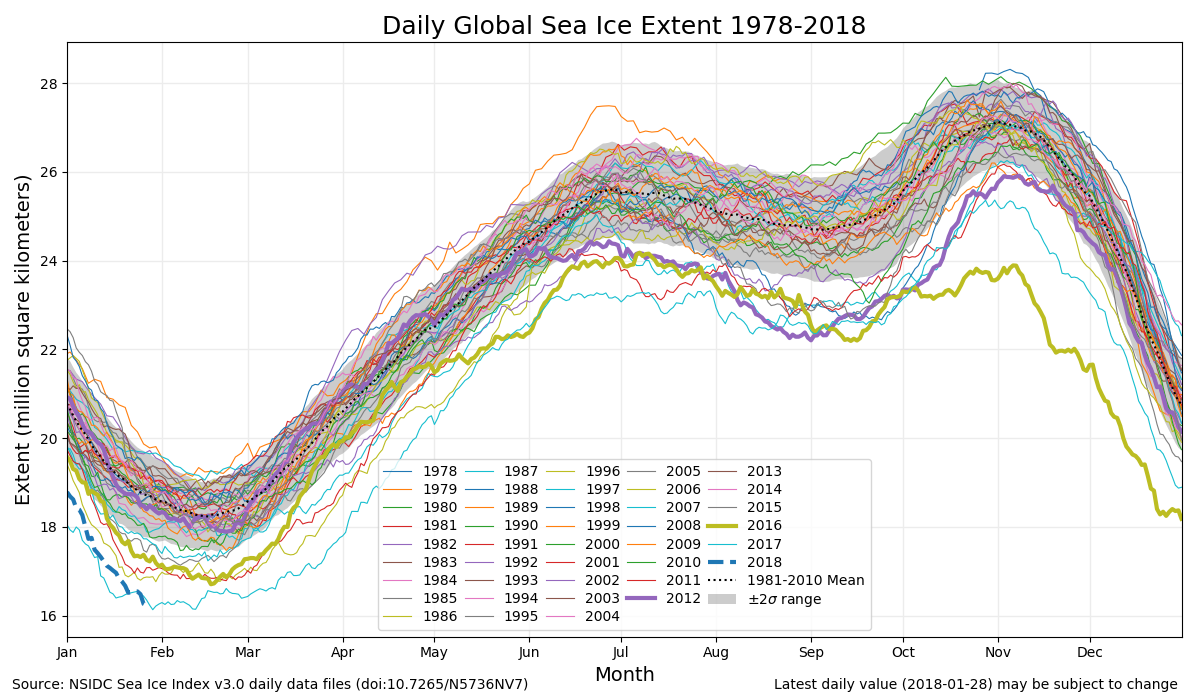
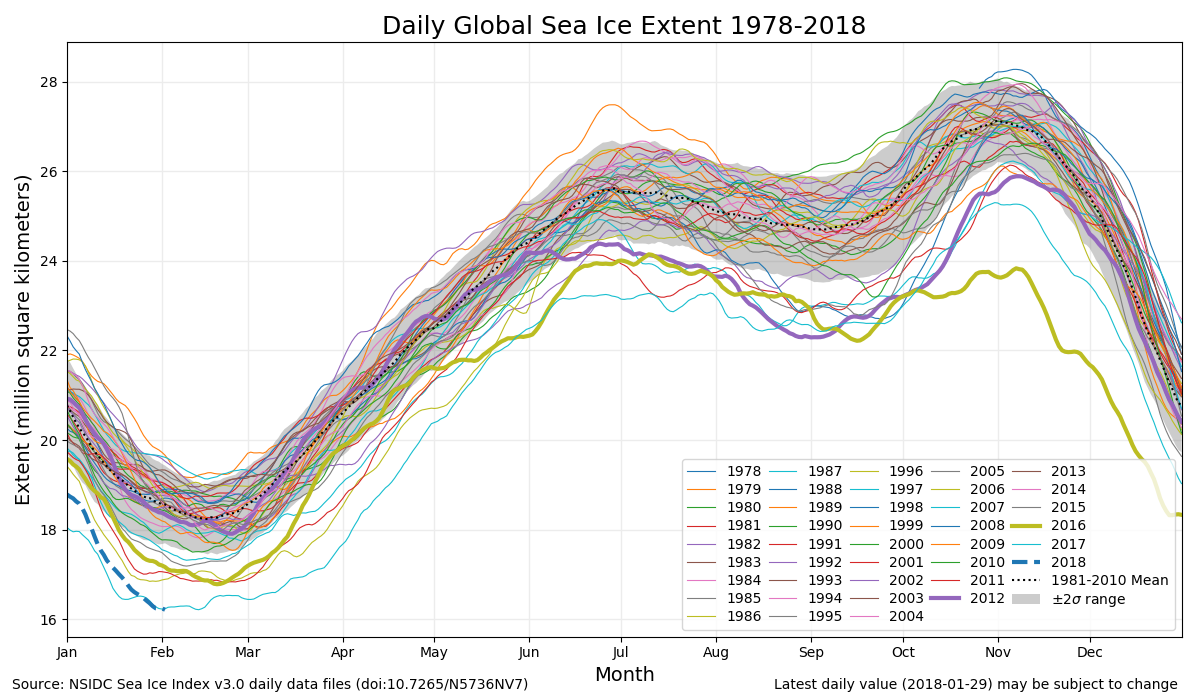
Add smoothing to Daily timeseries - uses rolling 5day mean - update daily plots to current

diff --git a/nsidc-tools/DailyIceIndexPlotter.py b/nsidc-tools/DailyIceIndexPlotter.py
@@ -186,10 +186,10 @@ def plot_timeseries(daily_df, climo_df, aoi='Arctic', sigma=2.):
             expanded_index = pd.DatetimeIndex(start=dobj, end=dobj+timedelta(364), freq='1D')
             subframe = subframe.reindex(expanded_index)
         subframe.index = common_index
-        # experimenting with smoothing, will have to expand the timeframe 
-        #interpolated_extent = subframe.Extent.interpolate(method='cubic')
-        #interpolated_extent.plot.line(ax=ax, x='index', y='Extent', label=year, linewidth=lineweight, linestyle=linetype, zorder=2)
-        subframe.plot(ax=ax, x=common_index, y='Extent', label=year, linewidth=lineweight, linestyle=linetype, zorder=2)
+        # experimenting with pandas rolling means
+        extent_rolling = subframe['Extent'].rolling(min_periods=1, window=5, center=False).mean()
+        extent_rolling.plot(ax=ax, label=year, linewidth=lineweight, linestyle=linetype, zorder=2)
+        #subframe.plot(ax=ax, x=common_index, y='Extent', label=year, linewidth=lineweight, linestyle=linetype, zorder=2)
     
     # Fill in the shaded plot to show which years fall within <sigma> standard deviations from the 1981-2010 mean
     climo_df.index = common_index
